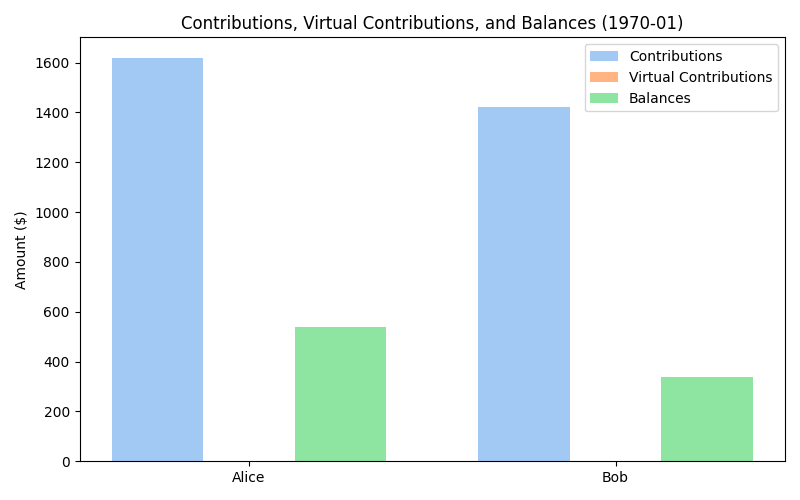
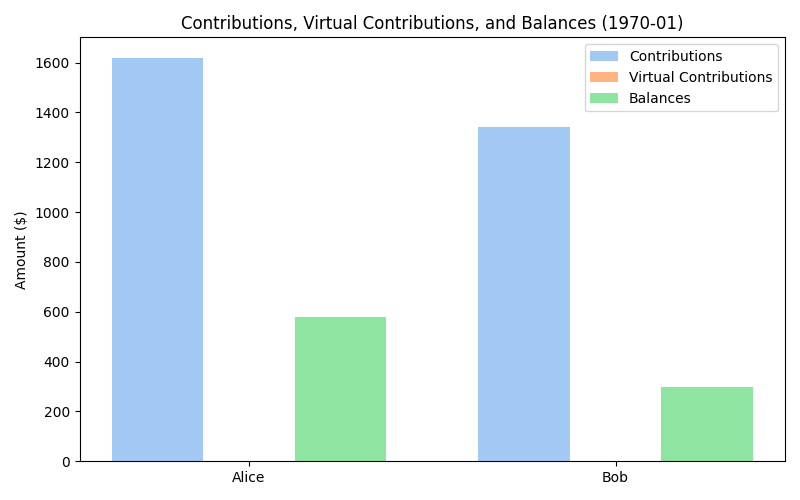
Update reports [skip ci]

Changed region(s): [[0.5938, 0.21, 0.7188, 0.27], [0.3438, 0.63, 0.5, 0.66], [0.8125, 0.75, 0.9375, 0.78]]

diff --git a/reports/1970-01-report.md b/reports/1970-01-report.md
@@ -3,15 +3,15 @@
 
 | Item                       | Amount ($) |
 |----------------------------|------------|
-| Total Shared Expenses      | 2165.00 |
-| Each Person Owes           | 1082.50 |
+| Total Shared Expenses      | 2085.00 |
+| Each Person Owes           | 1042.50 |
 | Account Balance change     | 875.00 |
 
 #### Paid Toward Shared
 | Name   | Amount ($) |
 |--------|------------|
 | Alice | 1620 |
-| Bob | 1420 |
+| Bob | 1340 |
 
 #### Virtual Contributions Toward Shared
 No virtual contributions recorded.
@@ -19,8 +19,8 @@ No virtual contributions recorded.
 #### Balances
 | Name   | Balance ($) | Status    |
 |--------|-------------|-----------|
-| Alice | 537.50 | overpaid |
-| Bob | 337.50 | overpaid |
+| Alice | 577.50 | overpaid |
+| Bob | 297.50 | overpaid |
 
 ![Contributions, Virtual Contributions, and Balances](1970-01-bar.png)
 
@@ -34,7 +34,6 @@ No virtual contributions recorded.
 | Utilities | 180.00 |
 | Streaming | 45.00 |
 | Personal Shopping | 90.00 |
-| Household Items | 80.00 |
 
 ![Expenses by Category](1970-01-categories-pie.png)
 
@@ -51,4 +50,3 @@ Full list of payments:
   - Date: 2025-06-08, Category: Utilities, Paid By: Alice, Amount: 180, Shared: Yes, Notes: Internet & electricity
   - Date: 2025-06-10, Category: Streaming, Paid By: Bob, Amount: 45, Shared: Yes, Notes: Netflix & Spotify
   - Date: 2025-06-12, Category: Personal Shopping, Paid By: Alice, Amount: 90, Shared: No, Notes: Not shared
-  - Date: 2025-06-15, Category: Household Items, Paid By: Bob, Amount: 80, Shared: Yes, Notes: Cleaning

diff --git a/reports/overview.md b/reports/overview.md
@@ -2,18 +2,8 @@
 
 | Month | Account Balance | Contributions | Virtual Contributions | Balances |
 |-------|-----------------|---------------|-----------------------|----------|
-| 1970-01 | $875.00 | Alice: $1620.00, Bob: $1420.00 |  | Alice: $537.50, Bob: $337.50 |
-| **Total** | $875.00 | Alice: $1620.00, Bob: $1420.00 |  | Alice: $537.50, Bob: $337.50 |
+| **Total** | $0.00 |  |  |  |
 
 
 ## Expenses by Category (All Time)
 
-- Rent: $1200.00
-- Groceries: $350.00
-- Dining Out: $220.00
-- Utilities: $180.00
-- Streaming: $45.00
-- Personal Shopping: $90.00
-- Household Items: $80.00
-
-![Expenses by Category (All Time)](overview-categories-pie.png)
